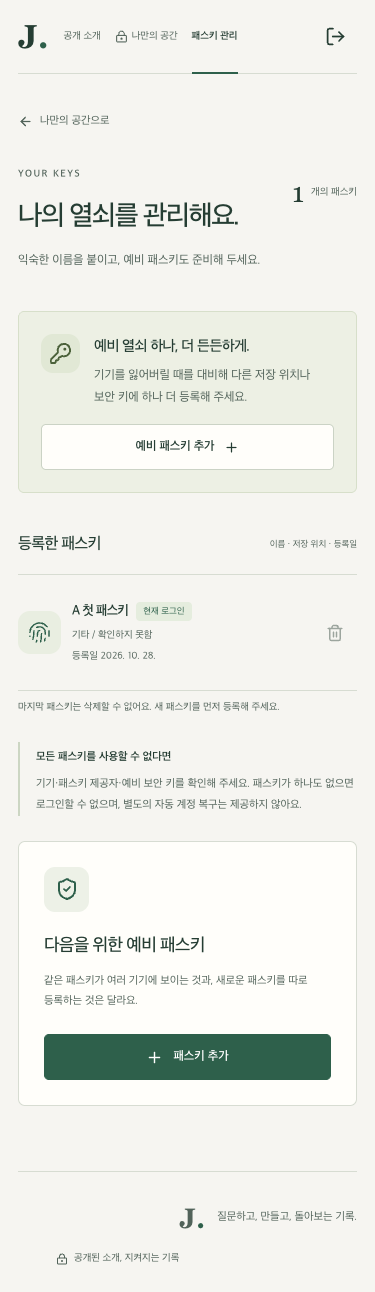
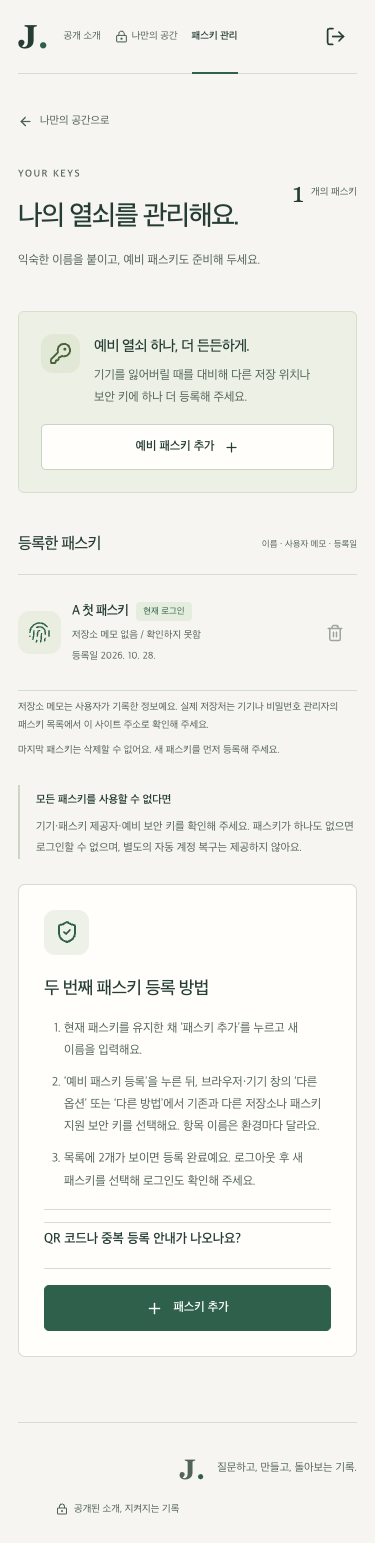
Clarify passkey storage notes and backup registration steps

diff --git a/tests/e2e/passkeys.spec.ts b/tests/e2e/passkeys.spec.ts
@@ -173,10 +173,37 @@ test('실제 WebAuthn 등록·로그인·격리·재사용 거절·패스키 폐
     await a.getByRole('link', { name: '패스키 관리', exact: true }).click();
     await expect(a.getByText('예비 열쇠 하나, 더 든든하게.')).toBeVisible();
     await a.getByRole('button', { name: '예비 패스키 추가', exact: false }).click();
+    await expect(a.getByRole('heading', { name: '두 번째 패스키 등록 방법' })).toBeVisible();
+    await expect(a.getByText('실제 저장소는 다음에 열리는 브라우저·기기의 인증 창에서 선택해요.', { exact: false })).toBeVisible();
+    await expect(a.getByLabel('기록할 저장소 메모')).toBeHidden();
+    await a.getByText('저장소 메모 남기기 (선택)', { exact: true }).click();
+    const duplicateAttempts: unknown[] = [];
+    // Changing a user memo must not masquerade as choosing a real authenticator.
+    // Keep the original real CDP authenticator: excludeCredentials must reject it.
+    for (const memo of ['Google 비밀번호 관리자', 'iCloud 키체인']) {
+      await a.getByLabel('기록할 저장소 메모').selectOption(memo);
+      const optionsResponse = a.waitForResponse(response => response.url().endsWith('/api/auth/registration/options'));
+      await a.getByRole('button', { name: '예비 패스키 등록', exact: true }).click();
+      const response = await optionsResponse;
+      const options = (await response.json()).options;
+      await expect(a.getByRole('alert')).toContainText('선택한 인증기에 이미 등록된 패스키가 있어요');
+      await expect(a.getByRole('alert')).toContainText('저장소 메모를 바꿔도 실제 저장소는 바뀌지 않아요');
+      expect(response.request().postDataJSON()).toEqual({});
+      expect(options.authenticatorSelection).toEqual((first.options.response as any).options.authenticatorSelection);
+      expect(withStore(store => store.credentials('test-account-a').length)).toBe(1);
+      await expect(a.locator('.passkey-list li')).toHaveCount(1);
+      duplicateAttempts.push({ userMemo: memo, authenticatorSelection: options.authenticatorSelection, duplicateRejected: true, storedKeyCount: 1 });
+    }
+    await a.getByText('QR 코드나 중복 등록 안내가 나오나요?', { exact: true }).click();
+    await expect(a.getByText('QR 코드는 다른 기기를 연결하는 경로예요.', { exact: false })).toBeVisible();
+    await a.screenshot({ path: 'evidence/ux/storage-memo-desktop.png', fullPage: true });
+    await a.getByLabel('기록할 저장소 메모').selectOption('기타 / 확인하지 못함');
+    await a.getByText('저장소 메모 남기기 (선택)', { exact: true }).click();
     authAId = await replaceAuthenticator(authA.cdp, authAId);
     const second = await register(a, 'A 예비 패스키', false);
     const secondCredential = await savedCredential(authA.cdp, authAId);
     await expect(a.locator('.passkey-list li')).toHaveCount(2);
+    await expect(a.getByText('저장소 메모 없음 / 확인하지 못함', { exact: true })).toHaveCount(2);
     await expect(a.getByText('예비 열쇠 하나, 더 든든하게.')).toHaveCount(0);
     expect((first.options.response as any).options.challenge).not.toBe((second.options.response as any).options.challenge);
     expect(JSON.stringify(first.verify.request)).not.toContain('privateKey');
@@ -267,8 +294,18 @@ test('실제 WebAuthn 등록·로그인·격리·재사용 거절·패스키 폐
     await expect(a.locator('.passkey-list li')).toHaveCount(1);
     expect(await a.evaluate(() => document.documentElement.scrollWidth <= innerWidth)).toBe(true);
     await a.screenshot({ path: 'evidence/ux/passkeys-mobile.png', fullPage: true });
+    await a.getByRole('button', { name: '패스키 추가', exact: true }).click();
+    await a.getByText('저장소 메모 남기기 (선택)', { exact: true }).click();
+    await a.getByText('QR 코드나 중복 등록 안내가 나오나요?', { exact: true }).click();
+    for (const width of [320, 375]) {
+      await a.setViewportSize({ width, height: 812 });
+      expect(await a.evaluate(() => document.documentElement.scrollWidth <= innerWidth)).toBe(true);
+    }
+    expect((await new AxeBuilder({ page: a }).withTags(['wcag2a', 'wcag2aa', 'wcag21aa']).analyze()).violations).toEqual([]);
+    await a.screenshot({ path: 'evidence/ux/storage-memo-mobile.png', fullPage: true });
 
     const common = { executedAt: new Date().toISOString(), timezone: 'Asia/Seoul', environment: 'Chromium CDP software virtual authenticator; no mocked verifier; no physical passkey provider', sourceDigest: sourceDigest() };
+    evidenceFile('evidence/ux/verified-storage-memo.json', { ...common, memoControlInitiallyCollapsed: true, memoDoesNotChooseAuthenticator: true, duplicateAttempts, distinctAuthenticatorRegistrationSucceeded: true, unknownProviderShownAsUnconfirmed: true, expandedGuidanceWidths: [320, 375], axeViolations: 0 });
     evidenceFile('evidence/registration/verified-registration.json', { ...common, first, second, storedPublicKeys: stored, privateKeyTransmitted: false });
     evidenceFile('evidence/authentication/verified-authentication.json', { ...common, success: validLogin, wrongSignature, reusedChallenge: { request: restoredLogin.verify.request, status: replay.status(), response: await replay.json() }, logoutReuse: { method: 'GET', path: '/api/private/items', authenticationHeader: '[REDACTED]', status: oldSessionResponse.status, response: await oldSessionResponse.json() }, csrfStatus: csrf.status() });
     evidenceFile('evidence/authorization/verified-isolation.json', { ...common, ownA: { method: 'GET', path: '/api/private/items', status: ownA.status(), response: { items: itemsA } }, ownB: { method: 'GET', path: '/api/private/items', status: ownB.status(), response: { items: itemsB } }, anonymous: { method: 'GET', path: '/api/private/items', status: anonymousResponse.status(), response: await anonymousResponse.json() }, aToB: { method: 'GET', path: `/api/private/items/${itemsB[0].id}`, status: aToB.status(), response: await aToB.json() }, bToA: { method: 'GET', path: `/api/private/items/${itemsA[0].id}`, status: bToA.status(), response: await bToA.json() }, counts: { before, after }, tamperedAccount: { method: 'GET', path: '/api/private/items?userId=test-account-b', status: spoof.status(), returned: itemsA.map(item => item.id) }, unsignedHtmlContainsPrivateContent: false });

diff --git a/src/client/passkeys/PasskeysPage.tsx b/src/client/passkeys/PasskeysPage.tsx
@@ -48,14 +48,25 @@ function PasskeysContent() {
     <Status message={error} kind="error" /><Status message={notice} kind="success" />
     {error && <button className="button secondary" onClick={() => { setError(''); void load(); }}>목록 다시 불러오기</button>}
     {keys?.length === 1 && <div className="backup-callout"><div className="callout-icon"><KeyRound size={23} aria-hidden="true" /></div><div><h2>예비 열쇠 하나, 더 든든하게.</h2><p>기기를 잃어버릴 때를 대비해 다른 저장 위치나 보안 키에 하나 더 등록해 주세요.</p></div><button className="button secondary" onClick={() => setShowForm(true)}>예비 패스키 추가 <Plus size={15} aria-hidden="true" /></button></div>}
-    <div className="keys-layout"><div><div className="list-heading"><h2>등록한 패스키</h2><span>이름 · 저장 위치 · 등록일</span></div>
+    <div className="keys-layout"><div><div className="list-heading"><h2>등록한 패스키</h2><span>이름 · 사용자 메모 · 등록일</span></div>
       {!keys ? <Loading label="등록한 패스키를 확인하고 있어요" /> : <ul className="passkey-list">
-        {keys.map(key => <li key={key.id}><div className="key-icon"><Fingerprint size={23} strokeWidth={1.5} aria-hidden="true" /></div><div className="key-info"><div><h3>{key.name}</h3>{key.current && <span className="current-key">현재 로그인</span>}</div><p>{key.provider}</p><p>등록일 {new Date(key.createdAt).toLocaleDateString('ko-KR')}</p></div>
+        {keys.map(key => <li key={key.id}><div className="key-icon"><Fingerprint size={23} strokeWidth={1.5} aria-hidden="true" /></div><div className="key-info"><div><h3>{key.name}</h3>{key.current && <span className="current-key">현재 로그인</span>}</div><p>{key.provider === '기타 / 확인하지 못함' ? '저장소 메모 없음 / 확인하지 못함' : `저장소 메모: ${key.provider} (사용자 기록)`}</p><p>등록일 {new Date(key.createdAt).toLocaleDateString('ko-KR')}</p></div>
           <button className="icon-button delete-key" aria-label={`${key.name} 삭제`} disabled={keys.length <= 1 || deleting} aria-describedby={keys.length <= 1 ? 'last-key-help' : undefined} onClick={() => { setError(''); setSelected(key); }}><Trash2 size={18} aria-hidden="true" /></button></li>)}
       </ul>}
+      <p className="field-help">저장소 메모는 사용자가 기록한 정보예요. 실제 저장처는 기기나 비밀번호 관리자의 패스키 목록에서 이 사이트 주소로 확인해 주세요.</p>
       <p className="field-help" id="last-key-help">마지막 패스키는 삭제할 수 없어요. 새 패스키를 먼저 등록해 주세요.</p>
       <div className="quiet-info"><span>모든 패스키를 사용할 수 없다면</span><p>기기·패스키 제공자·예비 보안 키를 확인해 주세요. 패스키가 하나도 없으면 로그인할 수 없으며, 별도의 자동 계정 복구는 제공하지 않아요.</p></div>
-    </div><aside className="add-key-card"><div className="auth-icon"><ShieldCheck size={24} aria-hidden="true" /></div><h2>다음을 위한 예비 패스키</h2><p>같은 패스키가 여러 기기에 보이는 것과, 새로운 패스키를 따로 등록하는 것은 달라요.</p>
+    </div><aside className="add-key-card"><div className="auth-icon"><ShieldCheck size={24} aria-hidden="true" /></div><h2>두 번째 패스키 등록 방법</h2>
+      <ol className="backup-steps">
+        <li>현재 패스키를 유지한 채 ‘패스키 추가’를 누르고 새 이름을 입력해요.</li>
+        <li>‘예비 패스키 등록’을 누른 뒤, 브라우저·기기 창의 ‘다른 옵션’ 또는 ‘다른 방법’에서 기존과 다른 저장소나 패스키 지원 보안 키를 선택해요. 항목 이름은 환경마다 달라요.</li>
+        <li>목록에 2개가 보이면 등록 완료예요. 로그아웃 후 새 패스키를 선택해 로그인도 확인해 주세요.</li>
+      </ol>
+      <details className="backup-help"><summary>QR 코드나 중복 등록 안내가 나오나요?</summary>
+        <p>QR 코드는 다른 기기를 연결하는 경로예요. 이 사이트의 저장소 메모로 경로가 바뀌지는 않아요.</p>
+        <p>다른 기기여도 같은 Google·iCloud 계정으로 동기화된 기존 패스키가 있으면 중복으로 인식될 수 있어요. 별도 저장소나 보안 키를 선택해 주세요.</p>
+        <p>원하는 저장소가 인증 창에 없다면 그 저장소를 지원하는 브라우저나 기기에서 기존 패스키로 로그인한 뒤 추가해 주세요. 새로 등록한 키의 실제 저장처는 해당 기기나 비밀번호 관리자에서 확인할 수 있어요.</p>
+      </details>
       {showForm ? <RegistrationForm onSuccess={async () => { await load(); setShowForm(false); setNotice('새 패스키를 등록했어요. 목록에서 이름과 등록일을 확인해 주세요.'); }} /> : <button className="button primary full-width" onClick={() => setShowForm(true)}><Plus size={17} aria-hidden="true" /> 패스키 추가</button>}
     </aside></div>
     <ConfirmDialog open={!!selected} title="이 패스키를 삭제할까요?" busy={deleting} onCancel={() => setSelected(null)} onConfirm={() => void remove()}>

diff --git a/scripts/verify-deployment.ts b/scripts/verify-deployment.ts
@@ -21,6 +21,7 @@ let success = false;
 let cleaned = true;
 let credentialProof: unknown;
 let counts: unknown;
+let storageMemoProof: unknown;
 const browser = await chromium.launch({ channel: process.env.PLAYWRIGHT_CHANNEL ?? 'chromium' });
 const contexts: BrowserContext[] = [];
 const sourceCommit = process.env.DEPLOYED_COMMIT ?? execFileSync('git', ['rev-parse', 'HEAD'], { encoding: 'utf8' }).trim();
@@ -127,6 +128,27 @@ try {
   await a.getByRole('link', { name: '패스키 관리', exact: true }).click();
   await expect(a.getByText('예비 열쇠 하나, 더 든든하게.')).toBeVisible();
   await a.getByRole('button', { name: '예비 패스키 추가', exact: false }).click();
+  await expect(a.getByRole('heading', { name: '두 번째 패스키 등록 방법' })).toBeVisible();
+  await expect(a.getByLabel('기록할 저장소 메모')).toBeHidden();
+  await a.getByText('저장소 메모 남기기 (선택)', { exact: true }).click();
+  const memoAttempts = [];
+  for (const memo of ['Google 비밀번호 관리자', 'iCloud 키체인']) {
+    await a.getByLabel('기록할 저장소 메모').selectOption(memo);
+    const optionsResponse = a.waitForResponse(response => response.url().endsWith('/api/auth/registration/options'));
+    await a.getByRole('button', { name: '예비 패스키 등록', exact: true }).click();
+    const response = await optionsResponse;
+    expect(response.status()).toBe(200);
+    expect(response.request().postDataJSON()).toEqual({});
+    await expect(a.getByRole('alert')).toContainText('저장소 메모를 바꿔도 실제 저장소는 바뀌지 않아요');
+    expect((await store.credentials(users[0])).length).toBe(1);
+    memoAttempts.push({ userMemo: memo, duplicateRejected: true, storedKeyCount: 1 });
+  }
+  await a.getByText('QR 코드나 중복 등록 안내가 나오나요?', { exact: true }).click();
+  await expect(a.getByText('QR 코드는 다른 기기를 연결하는 경로예요.', { exact: false })).toBeVisible();
+  await a.getByLabel('기록할 저장소 메모').selectOption('기타 / 확인하지 못함');
+  await a.screenshot({ path: 'evidence/deployment/storage-memo-https.png', fullPage: true });
+  await a.getByText('저장소 메모 남기기 (선택)', { exact: true }).click();
+  storageMemoProof = { memoControlInitiallyCollapsed: true, memoAttempts, secondPasskeyStepsVisible: true, qrAndDuplicateHelpVisible: true };
   aId = await replace(authA.cdp, aId);
   const second = await register(a, 'HTTPS A 예비 패스키', false);
   const key2 = await credential(authA.cdp, aId);
@@ -222,7 +244,7 @@ try {
 }
 const proof = { executedAt: new Date().toISOString(), timezone: 'Asia/Seoul', origin: target, sourceCommit, deploymentId: process.env.DEPLOYMENT_ID ?? null,
   passed: success, syntheticAccountsRemoved: cleaned, environment: 'actual public HTTPS deployment and Neon PostgreSQL; Chromium CDP virtual authenticator; no mocked signature verification',
-  physicalDeviceVerified: false, stage, storedPublicKeys: credentialProof, accountCounts: counts, cookiePolicy: success ? { secure: true, httpOnly: true, sameSite: 'Strict', prefix: '__Host-' } : null, records };
+  physicalDeviceVerified: false, stage, storedPublicKeys: credentialProof, accountCounts: counts, storageMemo: storageMemoProof, cookiePolicy: success ? { secure: true, httpOnly: true, sameSite: 'Strict', prefix: '__Host-' } : null, records };
 const json = JSON.stringify(proof, null, 2);
 expect(json).not.toMatch(/"(?:privateKey|token|sessionHash|Cookie|Set-Cookie|Authorization)"\s*:/i);
 expect(json).not.toMatch(/#token=[A-Za-z0-9_-]{43}/);

diff --git a/src/client/passkeys/RegistrationForm.tsx b/src/client/passkeys/RegistrationForm.tsx
@@ -16,10 +16,15 @@ export function RegistrationForm({ initial = false, onSuccess }: { initial?: boo
     <div className="field"><label htmlFor="passkey-name">패스키 이름</label>
       <input id="passkey-name" name="passkey-name" value={name} onChange={event => setName(event.target.value)} required minLength={1} maxLength={40} disabled={ceremony.busy} autoComplete="off" aria-describedby="passkey-name-help" />
       <p id="passkey-name-help" className="field-help">예: 내 노트북, 예비 보안 키. 실제 연락처는 넣지 마세요.</p></div>
-    <div className="field"><label htmlFor="passkey-provider">저장 위치</label>
+    <p className="registration-storage-guide">실제 저장소는 다음에 열리는 브라우저·기기의 인증 창에서 선택해요. 이 사이트에서는 저장소를 지정하지 않아요.</p>
+    <details className="storage-memo">
+      <summary>저장소 메모 남기기 (선택)</summary>
+      <p id="provider-help" className="field-help">아래 값은 사용자 메모예요. 값을 바꿔도 실제 저장소는 바뀌지 않으며, 서비스가 확인한 정보도 아니에요. 저장소를 모르면 ‘기타 / 확인하지 못함’으로 두세요.</p>
+      <div className="field"><label htmlFor="passkey-provider">기록할 저장소 메모</label>
       <select id="passkey-provider" value={provider} onChange={event => setProvider(event.target.value as Provider)} disabled={ceremony.busy} aria-describedby="provider-help">
         {providers.map(value => <option key={value}>{value}</option>)}
-      </select><p id="provider-help" className="field-help">기기 창에서 실제 선택한 위치를 기록해 주세요. 자동으로 확인되는 정보는 아니에요.</p></div>
+      </select></div>
+    </details>
     <button className="button primary full-width" type="submit" disabled={ceremony.busy || !name.trim()}>
       {ceremony.busy ? <LoaderCircle size={18} className="spin" aria-hidden="true" /> : initial ? <Fingerprint size={18} aria-hidden="true" /> : <Plus size={18} aria-hidden="true" />}
       {ceremony.busy ? '패스키 확인 중…' : initial ? '첫 패스키 등록' : '예비 패스키 등록'}

diff --git a/src/client/styles.css b/src/client/styles.css
@@ -146,6 +146,13 @@ main:focus,h1[tabindex="-1"]:focus { outline:none; }
 .add-key-card>h2 { font-size:18px; }
 .add-key-card>p { font-size:11px; line-height:1.9; color:var(--muted); margin:12px 0 22px; }
 .add-key-card .auth-icon { width:45px; height:45px; border-radius:11px; margin-bottom:20px; }
+.backup-steps { margin:16px 0; padding-left:20px; color:var(--muted); font-size:12px; line-height:1.85; }
+.backup-steps li+li { margin-top:10px; }
+.backup-help,.storage-memo { margin:16px 0; border-top:1px solid var(--line); border-bottom:1px solid var(--line); padding:12px 0; color:var(--muted); font-size:12px; line-height:1.8; }
+.backup-help summary,.storage-memo summary { color:var(--ink); cursor:pointer; padding:5px 0; font-weight:600; }
+.backup-help p { margin:10px 0 0; }
+.storage-memo .field { margin-top:14px; margin-bottom:0; }
+.registration-storage-guide { color:var(--ink); font-size:12px; line-height:1.85; margin:16px 0; }
 .confirm-dialog { max-width:460px; width:calc(100% - 36px); border:1px solid var(--line); border-radius:10px; background:var(--surface); color:var(--ink); padding:30px; box-shadow:0 20px 100px #12282025; }
 .confirm-dialog::backdrop { background:#21372d80; backdrop-filter:blur(3px); }
 .confirm-dialog h2 { font-size:23px; margin:14px 0; }

diff --git a/src/client/passkeys/useCeremony.ts b/src/client/passkeys/useCeremony.ts
@@ -57,7 +57,7 @@ export function useCeremony() {
       else {
         const name = error instanceof Error ? error.name : '';
         update(name === 'NotAllowedError' || name === 'AbortError' ? 'cancelled' : 'error',
-          name === 'InvalidStateError' ? '이미 등록한 패스키일 수 있어요. 다른 저장 위치나 보안 키를 선택해 주세요.'
+          name === 'InvalidStateError' ? '선택한 인증기에 이미 등록된 패스키가 있어요. 브라우저·기기 창의 ‘다른 옵션’에서 별도 저장소나 보안 키를 선택해 주세요. 저장소 메모를 바꿔도 실제 저장소는 바뀌지 않아요.'
           : name === 'NotAllowedError' ? '기기 확인이 취소되었거나 시간이 지났어요. 준비되면 다시 시도해 주세요.'
           : name === 'SecurityError' ? '이 주소에서 패스키를 사용할 수 없어요. 원래 등록한 주소인지 확인해 주세요.'
           : messages[name === 'AbortError' ? 'cancelled' : 'error']);

diff --git a/README.md b/README.md
@@ -46,6 +46,11 @@ npm run bootstrap -- --account owner --name "가상 사용자"
 등록한 계정에는 초기 링크를 재발급하지 않습니다. 로그인 후 패스키 관리에서 두 번째 패스키를 추가하세요.
 링크 교환 후 취소했다면 같은 브라우저의 `/setup`에서 유효시간 안에 다시 시도할 수 있습니다.
 
+두 번째 패스키는 로그인 후 **패스키 관리 → 패스키 추가 → 예비 패스키 등록**에서 추가합니다.
+열리는 브라우저·기기 인증 창의 ‘다른 옵션/다른 방법’에서 기존과 다른 저장소나 패스키 지원 보안 키를 선택하세요. QR은 다른 기기를 연결하는 경로이며, 같은 계정으로 동기화된 키는 별도 예비 키가 아닐 수 있습니다. 원하는 저장소가 없다면 그 저장소를 지원하는 브라우저나 기기에서 기존 키로 로그인한 뒤 추가합니다.
+
+‘저장소 메모 남기기’는 선택적인 사용자 기록입니다. 값을 바꿔도 실제 저장소가 바뀌지 않습니다. 서비스가 저장 제공자를 확인했다는 뜻도 아닙니다. 확인하지 못했다면 기본값으로 두고, 실제 저장처는 해당 기기나 비밀번호 관리자의 패스키 목록에서 사이트 주소로 확인하세요.
+
 SQLite 파일은 `runtime/app.sqlite`에 저장되며 Git에서 제외합니다. 원본을 잃으면 공개키·자료도 잃으므로 운영 시 영속 디스크와 백업이 필요합니다.
 
 ## 검증

diff --git a/docs/ux.md b/docs/ux.md
@@ -41,6 +41,10 @@
 - [x] 패스키가 하나뿐이면 분실 대비 이유와 추가 등록 버튼을 제공한다.
 - [x] 두 번째 등록 후 목록·개수를 갱신한다.
 - [x] 같은 패스키의 동기화와 별도 credential 등록을 구분해 안내한다.
+- [x] 저장소 메모를 접힌 선택 항목으로 표시하고, 실제 저장소 선택은 브라우저·기기 인증 창에서 한다고 안내한다.
+- [x] 등록 목록의 저장소 정보는 사용자 메모임을 표시하며 확인되지 않은 값은 확인 불가로 표시한다.
+- [x] 두 번째 키 등록 3단계, QR 경로, 동기화된 기존 키의 중복, 원하는 저장소가 없을 때의 다음 행동을 안내한다.
+- [x] 메모를 바꿔도 기존 인증기의 중복 등록은 거절되고 별도 인증기로는 등록되는 것을 실제 CDP WebAuthn으로 검증한다.
 
 구현 위치: `src/client/passkeys/`.
 
@@ -64,3 +68,5 @@
 구현 위치: `src/client/shared/`, `src/client/` 전체. 검증 증거: `evidence/ux/`.
 
 자동 증거: evidence/ux/verified-ux.json. 작은 화면은 데스크톱 브라우저의 viewport 검사이며 모바일 실기기 검증을 대신하지 않습니다.
+
+저장소 메모 회귀 증거: [자동 결과](../evidence/ux/verified-storage-memo.json), [데스크톱](../evidence/ux/storage-memo-desktop.png), [모바일](../evidence/ux/storage-memo-mobile.png). 실제 제공자 저장 위치를 검증한 결과가 아닙니다.

diff --git a/docs/verification-results.md b/docs/verification-results.md
@@ -54,3 +54,11 @@
 
 [요청·응답·공개키 JSON](../evidence/deployment/https-verification.json), [실제 PostgreSQL 동시성 검사](../evidence/deployment/postgres-check.json), [운영 화면](../evidence/deployment/public-https.png).
 쿠키·세션 원문·초기 링크·개인키는 증거에서 제외했습니다. 초기 배포의 JS/CSS 누락은 수정 후 전체 시나리오를 다시 통과했습니다.
+
+## 저장소 메모와 두 번째 등록 안내 수정
+
+저장 위치 선택처럼 보이던 드롭다운을 ‘저장소 메모 남기기 (선택)’ 안으로 옮기고 메모·실제 인증기 선택을 구분했습니다. 목록도 사용자 메모로 표시합니다.
+두 번째 등록의 3단계와 QR·동기화된 기존 키·지원 저장소가 없는 환경의 다음 행동을 안내합니다.
+
+기존 CDP 인증기를 유지하고 메모만 Google·iCloud로 바꿔도 실제 중복 등록은 거절되며 저장 키 수는 1개로 유지되는 것을 확인했습니다. 다른 CDP 인증기로 바꾸면 두 번째 등록이 성공합니다. [회귀 증거](../evidence/ux/verified-storage-memo.json).
+펼친 안내·메모 폼은 320/375px 넘침 및 axe WCAG 위반 0건을 확인했습니다. 이 테스트의 Google·iCloud 값은 사용자 메모일 뿐, 실제 제공자를 사용했다는 의미가 아닙니다.

diff --git a/evidence/README.md b/evidence/README.md
@@ -41,6 +41,7 @@ Chromium 가상 인증기의 실제 WebAuthn 검증에서 생성한 공개용 JS
 - authorization/verified-isolation.json, anonymous-page.html: 본인 성공·미인증/타인 거절·건수·변조·미인증 HTML.
 - passkey-lifecycle/verified-revocation.json, two-passkeys.png: 두 키·삭제·잔여 키 검증.
 - ux/verified-ux.json 및 PNG: U1–U6 자동 확인과 화면.
+- ux/verified-storage-memo.json 및 storage-memo-*.png: 기록용 선택값을 바꿔도 실제 인증기가 바뀌지 않는 회귀 검증과 두 번째 키 등록 안내.
 
 E2E를 실행하면 같은 경로를 새 실행 기록으로 덮어씁니다. 실행에 실패한 경우 일부 이전 기록이 남을 수 있으므로 executedAt·sourceDigest와 최근 전체 테스트 결과를 함께 확인합니다.
 

diff --git a/docs/structure.md b/docs/structure.md
@@ -54,6 +54,9 @@ project-apprenticeship-08/
 │   │   ├── private-desktop.png
 │   │   ├── public-desktop.png
 │   │   ├── public-mobile.png
+│   │   ├── storage-memo-desktop.png
+│   │   ├── storage-memo-mobile.png
+│   │   ├── verified-storage-memo.json
 │   │   └── verified-ux.json
 │   └── README.md
 ├── public/
